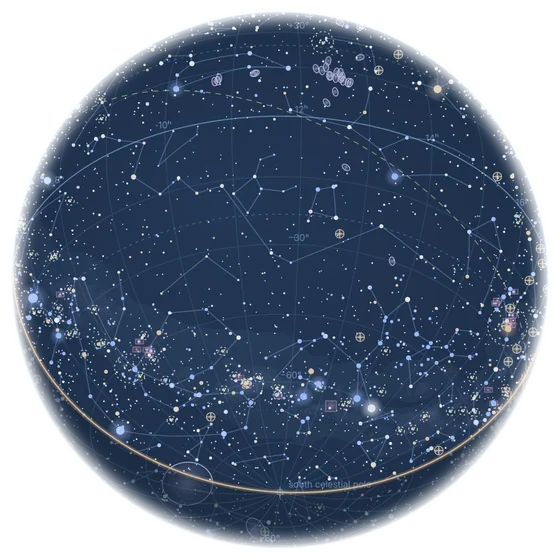
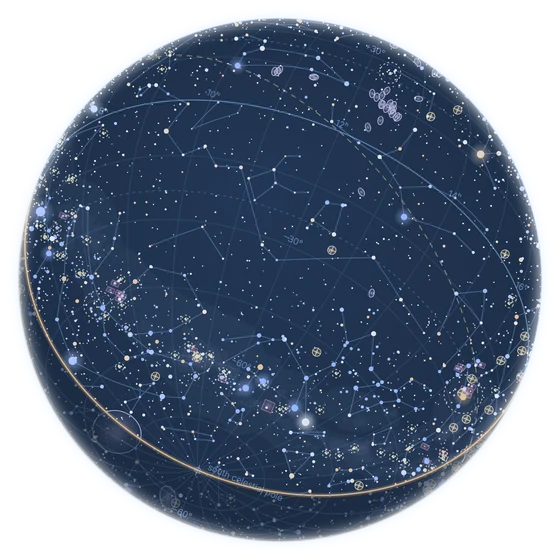
Tilt each globe's axis to the stand's 23.44 degrees, measured from each site

diff --git a/build/capture.py b/build/capture.py
@@ -43,6 +43,23 @@ if __name__ == '__main__' and os.environ.get('FEATHER_ONLY'):
         feather(Image.open(pth).convert('RGBA')).save(pth, 'WEBP', quality=86, method=6)
     raise SystemExit('feathered existing images')
 
+# The stand's meridian ring is tilted 23.44 degrees clockwise, the Earth's obliquity; each globe is turned so its
+# north pole points at the ring's upper pin. AXIS measures, in the live page, how far clockwise from straight up
+# the globe's own north pole already points, so the turn is TILT less that. The three Earth globes are drawn
+# with no roll (pole straight up). The celestial globe is drawn in sky coordinates centred on the zenith, also
+# with no roll, and may be mirrored, so its pole is measured by projecting the south celestial pole.
+TILT = 23.44
+AXIS = {
+    'world-time-zones': "WTZ.rotation()[2] || 0",
+    'river-valleys': "RV.rotation()[2] || 0",
+    'history-atlas': "HA.rotation()[2] || 0",
+    'celestial-globe': """(function () {
+        var c = CG.centre(), s = CG.proj(CG.unitv(0, -90)), n = CG.proj(CG.unitv(0, 90));
+        if (s) return Math.atan2(-(s[0] - c[0]), s[1] - c[1]) * 180 / Math.PI;   /* south pole, from straight down */
+        if (n) return Math.atan2(n[0] - c[0], -(n[1] - c[1])) * 180 / Math.PI;   /* north pole, from straight up */
+        return 0; })()""",
+}
+
 with sync_playwright() as pw:
     b = pw.chromium.launch()
     for key, url, setup in SITES:
@@ -62,18 +79,22 @@ with sync_playwright() as pw:
                 pg.wait_for_timeout(600)
         pg.add_style_tag(content=HIDE)
         pg.wait_for_timeout(400)
+        axis = float(pg.evaluate(AXIS[key]) or 0) if key in AXIS else 0.0
         png = pg.screenshot(omit_background=True)
         im = Image.open(io.BytesIO(png)).convert('RGBA')
-        a = im.split()[3].point(lambda v: 255 if v > 24 else 0)
-        box = a.getbbox()
-        im = im.crop(box)
-        side = max(im.size)
-        sq = Image.new('RGBA', (side, side), (0, 0, 0, 0))
-        sq.paste(im, ((side - im.size[0]) // 2, (side - im.size[1]) // 2))
+        # the sphere itself is opaque; its glow is not. Centre on the sphere, so the turn is about its own axis.
+        disc = im.split()[3].point(lambda v: 255 if v > 250 else 0).getbbox()
+        box = disc
+        cx, cy = (disc[0] + disc[2]) / 2, (disc[1] + disc[3]) / 2
+        half = int(max(disc[2] - disc[0], disc[3] - disc[1]) / 2 * 1.07)      # a little glow, and the ring close
+        sq = Image.new('RGBA', (2 * half, 2 * half), (0, 0, 0, 0))
+        sq.paste(im, (int(half - cx), int(half - cy)))
+        sq = sq.rotate(-(TILT - axis), resample=Image.BICUBIC)      # PIL turns anticlockwise for a positive angle
         sq = sq.resize((560, 560), Image.LANCZOS)
         sq = feather(sq)
         path = os.path.join(OUT, key + '.webp')
         sq.save(path, 'WEBP', quality=86, method=6)
-        print('%-18s crop %s -> %s  %d kB' % (key, box, os.path.basename(path), os.path.getsize(path) // 1024))
+        print('%-18s pole at %+.2f deg, turned %.2f deg clockwise; sphere %s -> %s  %d kB' % (
+            key, axis, TILT - axis, box, os.path.basename(path), os.path.getsize(path) // 1024))
         pg.close()
     b.close()
